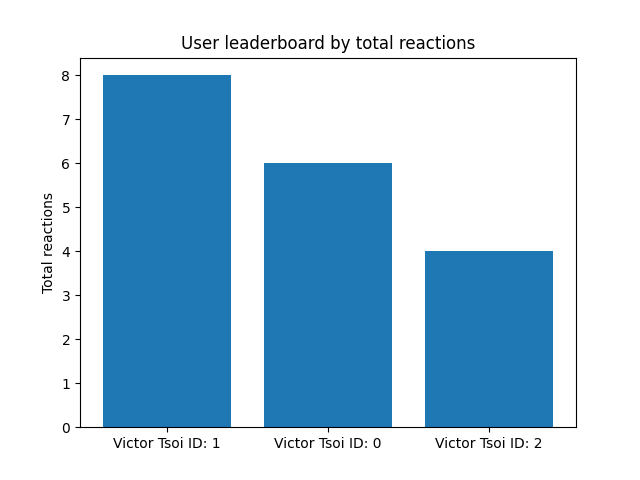
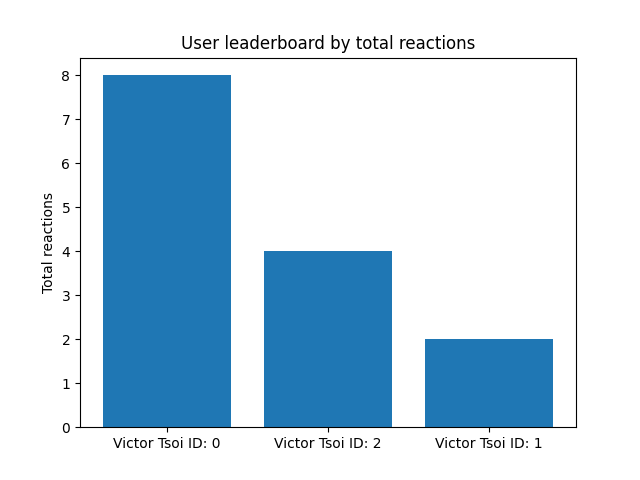
rework
views -> all_views -> views_users+views_posts

diff --git a/app/views_users.py b/app/views_users.py
@@ -1,0 +1,127 @@
+from app import app, USERS, POSTS, models
+from flask import Response, request, url_for
+import json
+from http import HTTPStatus
+import matplotlib.pyplot as plt
+
+
+@app.route("/")
+def index():
+    return "<h1>HI</h1>"
+
+
+@app.post("/users/create")
+def user_create():
+    data = request.get_json()
+    id = len(USERS)
+    first_name = data["first_name"]
+    last_name = data["last_name"]
+    phone = data["phone"]
+    email = data["email"]
+    for user in USERS:
+        if user.phone == phone or user.email == email:
+            return Response(
+                json.dumps({"ERROR": "User with these phone or email already exists"}),
+                status=HTTPStatus.BAD_REQUEST,
+                mimetype="application/json",
+            )
+    if not models.User.is_valid_email(email):
+        return Response(status=HTTPStatus.BAD_REQUEST)
+    user = models.User(id, first_name, last_name, phone, email)
+    USERS.append(user)
+    response = Response(
+        json.dumps(
+            {
+                "id": user.id,
+                "first_name": user.first_name,
+                "last_name": user.last_name,
+                "phone": user.phone,
+                "email": user.email,
+                "total_reactions": user.total_reactions(),
+                "posts": user.posts,
+            }
+        ),
+        status=HTTPStatus.OK,
+        mimetype="application/json",
+    )
+    return response
+
+
+@app.get("/users/<int:user_id>")
+def get_user(user_id):
+    if user_id < 0 or user_id >= len(USERS):
+        return Response(status=HTTPStatus.NOT_FOUND)
+    user = USERS[user_id]
+    response = Response(
+        json.dumps(
+            {
+                "id": user.id,
+                "first_name": user.first_name,
+                "last_name": user.last_name,
+                "phone": user.phone,
+                "email": user.email,
+                "total_reactions": user.total_reactions(),
+                "posts": user.posts,
+            }
+        ),
+        status=HTTPStatus.OK,
+        mimetype="application/json",
+    )
+    return response
+
+
+@app.get("/users/<int:user_id>/posts")
+def sort_posts_by_reactions(user_id):
+    if user_id < 0 or user_id >= len(POSTS):
+        return Response(status=HTTPStatus.NOT_FOUND)
+    data = request.get_json()
+    param = data["sort"]
+    if not (param == "asc" or param == "desc"):
+        return Response(status=HTTPStatus.BAD_REQUEST)
+    json_posts = USERS[user_id].sort_posts(param)
+
+    response = Response(
+        json.dumps({"posts": json_posts}),
+        status=HTTPStatus.OK,
+        mimetype="application/json",
+    )
+    return response
+
+
+@app.get("/users/leaderboard")
+def leaderboard():
+    data = request.get_json()
+    type = data["type"]
+    if not (type == "list" or type == "graph"):
+        return Response(status=HTTPStatus.BAD_REQUEST)
+    if type == "list":
+        param = data["sort"]
+        if not (param == "asc" or param == "desc"):
+            return Response(status=HTTPStatus.BAD_REQUEST)
+        json_ldbrd = models.sort_users(USERS, param)
+        response = Response(
+            json.dumps({"users": json_ldbrd}),
+            status=HTTPStatus.OK,
+            mimetype="application/json",
+        )
+        return response
+
+    elif type == "graph":
+        USERS.sort(key=lambda x: x.total_reactions(), reverse=True)
+        fig, ax = plt.subplots()
+        user_data = [
+            f"{user.first_name} {user.last_name} ID: {user.id}" for user in USERS
+        ]
+        user_reactions = [user.total_reactions() for user in USERS]
+        ax.bar(user_data, user_reactions)
+        ax.set_ylabel("Total reactions")
+        ax.set_title("User leaderboard by total reactions")
+        plt.savefig("app/static/images/users_leaderboard.png")
+        return Response(
+            f""" <img src= "{url_for('static', filename='images/users_leaderboard.png')}">""",
+            status=HTTPStatus.OK,
+            mimetype="text/html",
+        )
+
+    else:
+        return Response(status=HTTPStatus.BAD_REQUEST)

diff --git a/app/views_posts.py b/app/views_posts.py
@@ -1,0 +1,67 @@
+from app import app, USERS, POSTS, models
+from flask import Response, request
+import json
+from http import HTTPStatus
+
+
+@app.post("/posts/create")
+def post_create():
+    data = request.get_json()
+    id = len(POSTS)
+    author_id = data["author_id"]
+    text = data["text"]
+    if author_id < 0 or author_id >= len(USERS):
+        return Response(status=HTTPStatus.NOT_FOUND)
+    post = models.Post(id, author_id, text)
+    POSTS.append(post)
+    USERS[author_id].posts.append(id)
+    response = Response(
+        json.dumps(
+            {
+                "id": post.id,
+                "author_id": post.author_id,
+                "text": post.text,
+                "reactions": post.reactions,
+            }
+        ),
+        status=HTTPStatus.OK,
+        mimetype="application/json",
+    )
+    return response
+
+
+@app.get("/posts/<int:post_id>")
+def get_post(post_id):
+    if post_id < 0 or post_id >= len(POSTS):
+        return Response(status=HTTPStatus.NOT_FOUND)
+    post = POSTS[post_id]
+    response = Response(
+        json.dumps(
+            {
+                "id": post.id,
+                "author_id": post.author_id,
+                "text": post.text,
+                "reactions": post.reactions,
+            }
+        ),
+        status=HTTPStatus.OK,
+        mimetype="application/json",
+    )
+    return response
+
+
+@app.post("/posts/<int:post_id>/reaction")
+def react(post_id):
+    if post_id < 0 or post_id >= len(POSTS):
+        return Response(status=HTTPStatus.NOT_FOUND)
+    data = request.get_json()
+    reaction = data["reaction"]
+    reactions = ["like", "dislike", "fire", "smile_emoji", "crying_emoji", "what_emoji"]
+    if not reaction in reactions:
+        return Response(
+            json.dumps({"ERROR": f"Please, use only {reactions} reactions"}),
+            status=HTTPStatus.NOT_FOUND,
+        )
+    POSTS[post_id].reactions.append(reaction)
+    response = Response(status=HTTPStatus.OK)
+    return response

diff --git a/app/__init__.py b/app/__init__.py
@@ -5,5 +5,6 @@ app = Flask(__name__)
 USERS = []  # list of type User
 POSTS = []  # list of type Post
 
-from app import views
+from app import views_users
+from app import views_posts
 from app import models
